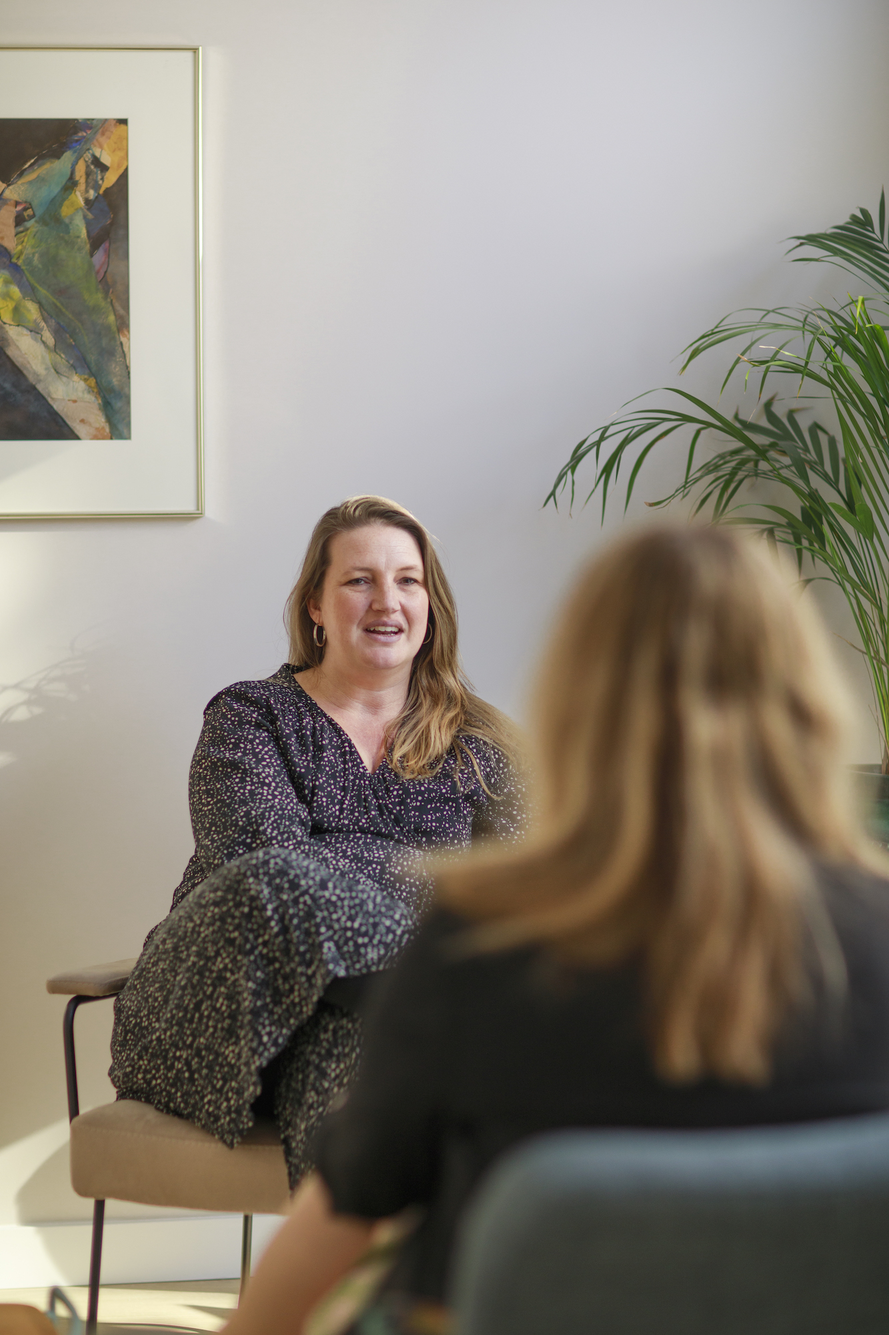
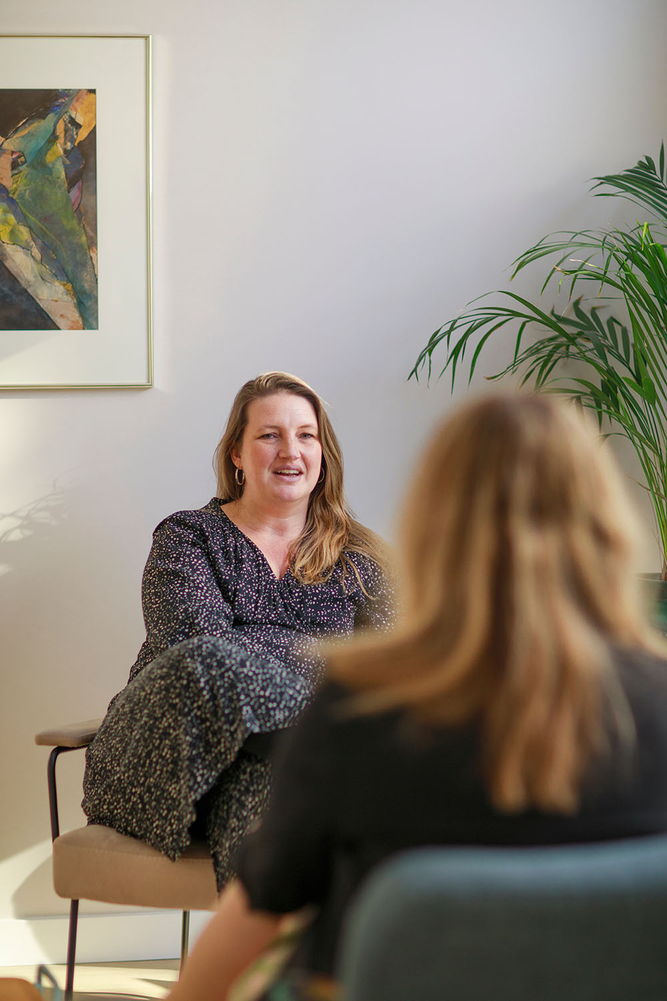
Alles foto’s compacter + contact in footer

diff --git a/index.html b/index.html
@@ -141,8 +141,8 @@
 		</div>
 		<div class="w-50" id="masthead-photo">
 			<picture>
-				<source srcset="images/portret-sized.webp" type="image/webp">
-				<img src="images/portret-sized.jpg" width="580" alt="Portret van Natascha Hauser Middelberg">
+				<source srcset="images/portret.webp" type="image/webp">
+				<img src="images/portret.jpg" width="580" alt="Portret van Natascha Hauser Middelberg">
 			</picture>
 		</div>
 	</header>
@@ -153,8 +153,8 @@
 		<section id="welkom" class="flex inset-wide">
 			<div class="w-50" id="welkom-foto">
 				<picture>
-					<source srcset="images/stoel-sized.webp" type="image/webp">
-					<img src="images/stoel-sized.jpg" width="580" alt="Natascha in gesprek">
+					<source srcset="images/stoel.webp" type="image/webp">
+					<img src="images/stoel.jpg" width="580" alt="Natascha in gesprek">
 				</picture>
 			</div>
 			<div class="w-50" id="welkom-titel">
@@ -207,8 +207,8 @@
 		<!-- breather -->
 		<section class="inset-wide" style="margin-top: 60px;">
 			<picture>
-				<source srcset="images/bank-sized.webp" type="image/webp">
-				<img src="images/bank-sized.jpg" style="width:100%;" alt="Natascha in werkkamer">
+				<source srcset="images/bank.webp" type="image/webp">
+				<img src="images/bank.jpg" style="width:100%;" alt="Natascha in werkkamer">
 			</picture>
 		</section>
 
@@ -241,18 +241,6 @@
 			</div>
 		</section>
 
-		<!-- contact -->
-		<!-- <section id="contact" class="inset-wide flex" style="margin-top: 60px; border-top: 1px solid rgba(0, 0, 0, 0.5); padding-top:20px;">
-			<div class="w-50">
-				<h2>Contact</h2>
-				<p>Lorem ipsum dolor sit amet consectetur adipisicing elit. Culpa saepe earum ducimus excepturi voluptatum. Aspernatur voluptate at nihil alias fugiat vero veritatis illum mollitia, praesentium quaerat velit consectetur, earum excepturi.</p>
-			</div>
-			<div class="w-50">
-				<p>Lorem ipsum dolor sit amet consectetur adipisicing elit. Id nesciunt quae odit quidem cumque dolorem. Soluta veniam tempore quaerat ea corporis maxime, incidunt aliquam eaque assumenda commodi reprehenderit, dolores unde!</p>
-				<a class="button" href="https://wa.me/31642833135">WhatsApp mij</a> <a class="button" href="tel:+31642833135">Bel mij nu</a>
-			</div>      
-		</section> -->
-
 	</main>
 
 	<footer>
@@ -271,6 +259,8 @@
 				<!-- <li><a href="">Klachten</a></li> -->
 				<li><a href="/privacy">Privacybeleid</a></li>
 				<!-- <li><a href="https://vp.info/voor-clienten/heeft-een-psycholog-psychotherapeut-beroepsgeheim/" target="_blank">Beroepsgeheim</a></li> -->
+				<li><a href="tel:+31642833135">Bel op 06 4283 3135</a></li>
+				<li><a href="https://wa.me/31642833135">WhatsApp mij</a></li>
 				<li><a href="https://goo.gl/maps/Pv5xXZk53dogzLur9">Des Presstraat 12 1075 NX, A'dam</a></li>
 				<li>Aanwezig: ma, di, en do.</li>
 				<li>© <span id="fyear">2021</span> In mijn Humm</li>

diff --git a/over/index.html b/over/index.html
@@ -89,7 +89,11 @@
 			</div>
 
 			<div class="inset">
-				<img src="/images/buro.jpg" style="width:100%;" alt="Natascha aan haar buro">
+				<picture>
+					<source srcset="/images/buro.webp" type="image/webp">
+					<img src="/images/buro.jpg" style="width:100%;" alt="Natascha aan haar buro">
+				</picture>
+				
 			</div>
 
 			<div class="inset-narrow">
@@ -108,7 +112,10 @@
 			</div>
 
 			<div class="inset">
-				<img src="/images/hummingbird.jpg" style="width:100%;" alt="De hummoingbird, of kolibrie">
+				<picture>
+					<source srcset="/images/hummingbird.webp" type="image/webp">
+					<img src="/images/hummingbird.jpg" style="width:100%;" alt="De hummoingbird, of kolibrie">
+				</picture>
 			</div>
 
 			<div class="inset-narrow">
@@ -137,6 +144,8 @@
 				<!-- <li><a href="">Klachten</a></li> -->
 				<li><a href="/privacy">Privacybeleid</a></li>
 				<!-- <li><a href="https://vp.info/voor-clienten/heeft-een-psycholog-psychotherapeut-beroepsgeheim/" target="_blank">Beroepsgeheim</a></li> -->
+				<li><a href="tel:+31642833135">Bel op 06 4283 3135</a></li>
+				<li><a href="https://wa.me/31642833135">WhatsApp mij</a></li>
 				<li><a href="https://goo.gl/maps/Pv5xXZk53dogzLur9">Des Presstraat 12 1075 NX, A'dam</a></li>
 				<li>Aanwezig: ma, di, en do.</li>
 				<li>© <span id="fyear">2021</span> In mijn Humm</li>

diff --git a/styles.css b/styles.css
@@ -77,7 +77,7 @@ nav.simple {position:fixed; top:0; background-color: none;}
 footer {background-color: var(--darkPaper); padding-top:40px; padding-bottom: 40px; margin-top: 80px;}
 footer b {font-weight: normal; opacity: 0.7;}
 footer ul {columns: 4; column-gap: 6px;}
-footer li {list-style-type: none;}
+footer li {list-style-type: none; margin: 6px 0;}
 footer .button {margin:4px 0; padding:6px 20px;}
 
 /* not used for now */
@@ -95,7 +95,6 @@ footer .button {margin:4px 0; padding:6px 20px;}
     .w-33, .w-50, .w-40, .w-60 {width:100%; padding:0;}
     .w-25 {width:50%;}
     footer ul {columns: 2;}
-    footer li {margin: 6px 0;}
 }
 @media screen and (max-width: 640px){
     #nav-more {display:block;}

diff --git a/privacy/index.html b/privacy/index.html
@@ -141,6 +141,8 @@
 				<!-- <li><a href="">Klachten</a></li> -->
 				<li><a href="/privacy">Privacybeleid</a></li>
 				<!-- <li><a href="https://vp.info/voor-clienten/heeft-een-psycholog-psychotherapeut-beroepsgeheim/" target="_blank">Beroepsgeheim</a></li> -->
+				<li><a href="tel:+31642833135">Bel op 06 4283 3135</a></li>
+				<li><a href="https://wa.me/31642833135">WhatsApp mij</a></li>
 				<li><a href="https://goo.gl/maps/Pv5xXZk53dogzLur9">Des Presstraat 12 1075 NX, A'dam</a></li>
 				<li>Aanwezig: ma, di, en do.</li>
 				<li>© <span id="fyear">2021</span> In mijn Humm</li>

diff --git a/vergoeding/index.html b/vergoeding/index.html
@@ -160,6 +160,8 @@
 				<!-- <li><a href="">Klachten</a></li> -->
 				<li><a href="/privacy">Privacybeleid</a></li>
 				<!-- <li><a href="https://vp.info/voor-clienten/heeft-een-psycholog-psychotherapeut-beroepsgeheim/" target="_blank">Beroepsgeheim</a></li> -->
+				<li><a href="tel:+31642833135">Bel op 06 4283 3135</a></li>
+				<li><a href="https://wa.me/31642833135">WhatsApp mij</a></li>
 				<li><a href="https://goo.gl/maps/Pv5xXZk53dogzLur9">Des Presstraat 12 1075 NX, A'dam</a></li>
 				<li>Aanwezig: ma, di, en do.</li>
 				<li>© <span id="fyear">2021</span> In mijn Humm</li>
